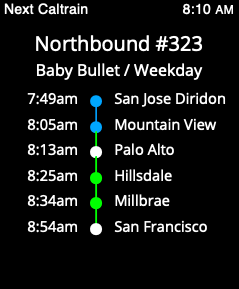
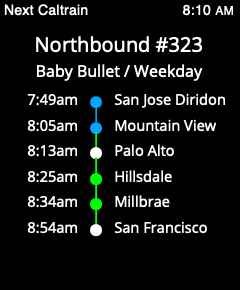
Allow hero screen work in fullscreen mode.

diff --git a/webapp/es5/NextCaltrain.js b/webapp/es5/NextCaltrain.js
@@ -22,9 +22,8 @@ var UP = 53;
 var DOWN = 56;
 
 var screens = 'hero grid trip about commands'.split(' ');
-var previousScreen = screens[0];
 
-var hints = [['Use the keypad to navigate<br/>as there is no touchscreen.', [], 'Press [OK] to continue and<br/>[BACK] to return to the app.'], ['Use [5] and [8] to move<br/>the seletion up and down.', [5, 8], 'The [UP] and [DOWN] buttons<br/>may not work as expected.'], ['Use [4] and [6] to<br/>change origin station.', [4, 6, 7, 9], 'Use [7] and [9] to<br/>change destination station.'], ['Use [0] to flip the direction<br/>of the selected stations.', [0, '#'], 'Use [#] to swap between<br/>weekday/weekend schedules.'], ['Use [2] to hide the cursor,<br/>and nagivate with 5 and 8.', [2, '*'], 'Use [*] to acess the menu<br/>for help and settings.']];
+var hints = [['Use the keypad to navigate<br/>as there is no touchscreen.', [], 'Press [OK] to continue and<br/>[BACK] to return to the app.'], ['Use [5] and [8] to move<br/>the seletion up and down.', [5, 8], 'The [UP] and [DOWN] buttons<br/>may not work as expected.'], ['Use [4] and [6] to<br/>change origin station.', [4, 6, 7, 9], 'Use [7] and [9] to<br/>change destination station.'], ['Use [0] to flip the direction<br/>of the selected stations.', [0, '#'], 'Use [#] to swap between<br/>weekday/weekend schedules.'], ['The cursor arrow is visible<br/>but not used by the app.', null, 'Move it to the right, then<br/>use [5] and [8] to navigate.']];
 var hintIndex = -1;
 
 var NextCaltrain = function () {
@@ -40,8 +39,7 @@ var NextCaltrain = function () {
       kaios = kaios1 || kaios2;
       if (!kaios) {
         document.getElementById('keypad').style['display'] = 'flex';
-      } else if (kaios2) {
-        document.getElementById('hero-screen').className = 'downtime';
+        document.getElementById('hero-filler').style['display'] = 'flex';
       } else if (kaios1) {
         document.getElementById('grid-screen').className = 'part-screen';
         document.getElementById('trip-screen').className = 'part-screen';
@@ -69,11 +67,16 @@ var NextCaltrain = function () {
       if (hintIndex >= hints.length) hintIndex = 0;
       document.getElementById('hint-above').innerHTML = hints[hintIndex][0];
       document.getElementById('hint-below').innerHTML = hints[hintIndex][2];
-      var bg = ['black', 'gray'];
-      for (var i = 0; i < 12; i++) {
-        var key = i < 10 ? i : ['*', '#'][i % 2];
-        var clr = hints[hintIndex][1].indexOf(key) == -1 ? bg[1] : bg[0];
-        document.getElementById(`k${key}`).style['background-color'] = clr;
+      if (hints[hintIndex][1] === null) {
+        document.getElementById('mini-keypad').style['visibility'] = 'hidden';
+      } else {
+        document.getElementById('mini-keypad').style['visibility'] = 'visible';
+        var bg = ['black', 'gray'];
+        for (var i = 0; i < 12; i++) {
+          var key = i < 10 ? i : ['*', '#'][i % 2];
+          var clr = hints[hintIndex][1].indexOf(key) == -1 ? bg[1] : bg[0];
+          document.getElementById(`k${key}`).style['background-color'] = clr;
+        }
       }
     }
   }, {
@@ -91,6 +94,8 @@ var NextCaltrain = function () {
       document.getElementById('grid-ampm').innerHTML = partTime[1].toUpperCase();
       document.getElementById('trip-time').innerHTML = partTime[0];
       document.getElementById('trip-ampm').innerHTML = partTime[1].toUpperCase();
+      document.getElementById('hero-time').innerHTML = partTime[0];
+      document.getElementById('hero-ampm').innerHTML = partTime[1].toUpperCase();
       setTimeout(function () {
         NextCaltrain.setTheTime();
       }, (60 - ourTime.seconds) * 1000);
@@ -261,7 +266,7 @@ var NextCaltrain = function () {
     key: 'displayScreen',
     value: function displayScreen(target) {
       if (kaios1) document.title = 'Next Caltrain';
-      if (target === 'grid' || target === 'trip') {
+      if (target === 'hero' || target === 'grid' || target === 'trip') {
         if (kaios2 && !document.fullscreenElement) document.documentElement.requestFullscreen();
       } else {
         if (kaios2 && document.fullscreenElement) document.exitFullscreen();
@@ -279,8 +284,9 @@ var NextCaltrain = function () {
     value: function attachListeners() {
       document.onfullscreenchange = function (e) {
         if (document.fullscreenElement) {
-          NextCaltrain.displayScreen('grid');
+          document.getElementById('hero-filler').style['display'] = 'flex';
         } else {
+          document.getElementById('hero-filler').style['display'] = 'none';
           NextCaltrain.displayScreen('hero');
         }
       };
@@ -307,6 +313,8 @@ var NextCaltrain = function () {
           code = BACK;
           if (NextCaltrain.currentScreen() !== 'hero') {
             e.preventDefault();
+          } else {
+            return;
           }
         } else if (code === OK) {
           e.preventDefault();
@@ -326,7 +334,6 @@ var NextCaltrain = function () {
       } else if (code === 'prefs') {
         var confirmation = ['Save', prefs.flipped ? prefs.destin : prefs.origin, 'as morning and', prefs.flipped ? prefs.origin : prefs.destin, 'as evening default stations?'].join(' ');
         if (confirm(confirmation)) prefs.saveStops();
-        NextCaltrain.displayScreen(previousScreen);
       } else if (code === 'about') {
         NextCaltrain.displayScreen('about');
       } else if (code === 'commands') {
@@ -334,14 +341,14 @@ var NextCaltrain = function () {
         NextCaltrain.displayScreen('commands');
       } else if (NextCaltrain.currentScreen() === 'about') {
         if (code == OK || code == BACK) {
-          NextCaltrain.displayScreen(previousScreen);
+          NextCaltrain.displayScreen('hero');
         }
       } else if (NextCaltrain.currentScreen() === 'commands') {
         if (code == OK) {
           NextCaltrain.bumpKeypadHint();
         } else if (code == BACK) {
           hintIndex = -1;
-          NextCaltrain.displayScreen(previousScreen);
+          NextCaltrain.displayScreen('hero');
         }
       } else if (document.getElementById('popup-menu').style['display'] === 'block') {
         if (code === OK || code === BACK) {
@@ -360,6 +367,7 @@ var NextCaltrain = function () {
         } else if (code === OK) {
           NextCaltrain.displayScreen('grid');
         } else if (code === 170 || code === 37) {
+          if (kaios2 && document.fullscreenElement) document.exitFullscreen();
           NextCaltrain.popupMenu('show');
         } else if (code === 163 || code === 39) {
           swapped = swapped ? false : true;

diff --git a/webapp/src/NextCaltrain.js b/webapp/src/NextCaltrain.js
@@ -16,7 +16,6 @@ const UP = 53;
 const DOWN = 56
 
 const screens = 'hero grid trip about commands'.split(' ');
-let previousScreen = screens[0];
 
 const hints = [
     ['Use the keypad to navigate<br/>as there is no touchscreen.', [],
@@ -27,8 +26,10 @@ const hints = [
      'Use [7] and [9] to<br/>change destination station.'],
     ['Use [0] to flip the direction<br/>of the selected stations.', [0,'#'],
      'Use [#] to swap between<br/>weekday/weekend schedules.'],
-    ['Use [2] to hide the cursor,<br/>and nagivate with 5 and 8.', [2,'*'],
-     'Use [*] to acess the menu<br/>for help and settings.']];
+//  ['Use [2] to hide the cursor,<br/>and nagivate with 5 and 8.', [2,'*'],
+//   'Use [*] to acess the menu<br/>for help and settings.']];
+    ['The cursor arrow is visible<br/>but not used by the app.', null,
+     'Move it to the right, then<br/>use [5] and [8] to navigate.']];
 let hintIndex = -1;
 
 class NextCaltrain {
@@ -41,8 +42,7 @@ class NextCaltrain {
     kaios = (kaios1 || kaios2);
     if (!kaios) {
       document.getElementById('keypad').style['display'] = 'flex';
-    } else if (kaios2) {
-      document.getElementById('hero-screen').className = 'downtime';
+      document.getElementById('hero-filler').style['display'] = 'flex';
     } else if (kaios1) {
       document.getElementById('grid-screen').className = 'part-screen';
       document.getElementById('trip-screen').className = 'part-screen';
@@ -68,11 +68,16 @@ class NextCaltrain {
     if (hintIndex >= hints.length) hintIndex = 0;
     document.getElementById('hint-above').innerHTML = hints[hintIndex][0];
     document.getElementById('hint-below').innerHTML = hints[hintIndex][2];
-    let bg = ['black', 'gray'];
-    for (let i = 0; i < 12; i++) {
-      let key = (i < 10) ? i : ['*','#'][i % 2];
-      let clr = hints[hintIndex][1].indexOf(key) == -1 ? bg[1] : bg[0];
-      document.getElementById(`k${key}`).style['background-color'] = clr;
+    if (hints[hintIndex][1] === null) {
+      document.getElementById('mini-keypad').style['visibility'] = 'hidden';
+    } else {
+      document.getElementById('mini-keypad').style['visibility'] = 'visible';
+      let bg = ['black', 'gray'];
+      for (let i = 0; i < 12; i++) {
+        let key = (i < 10) ? i : ['*','#'][i % 2];
+        let clr = hints[hintIndex][1].indexOf(key) == -1 ? bg[1] : bg[0];
+        document.getElementById(`k${key}`).style['background-color'] = clr;
+      }
     }
   }
 
@@ -88,6 +93,8 @@ class NextCaltrain {
     document.getElementById('grid-ampm').innerHTML = partTime[1].toUpperCase();
     document.getElementById('trip-time').innerHTML = partTime[0];
     document.getElementById('trip-ampm').innerHTML = partTime[1].toUpperCase();
+    document.getElementById('hero-time').innerHTML = partTime[0];
+    document.getElementById('hero-ampm').innerHTML = partTime[1].toUpperCase();
     setTimeout( function () { NextCaltrain.setTheTime() }, (60 - ourTime.seconds) * 1000);
     NextCaltrain.loadSchedule();
   }
@@ -242,7 +249,7 @@ class NextCaltrain {
 
   static displayScreen(target) {
     if (kaios1) document.title = 'Next Caltrain';
-    if (target === 'grid' || target === 'trip') {
+    if (target === 'hero' || target === 'grid' || target === 'trip') {
       if (kaios2 && !document.fullscreenElement) document.documentElement.requestFullscreen();
     } else {
       if (kaios2 && document.fullscreenElement) document.exitFullscreen();
@@ -260,8 +267,9 @@ class NextCaltrain {
     // Return to the hero screen when EXIT from fullscreen.
     document.onfullscreenchange = function (e) {
       if (document.fullscreenElement) {
-        NextCaltrain.displayScreen('grid');
+        document.getElementById('hero-filler').style['display'] = 'flex';
       } else {
+        document.getElementById('hero-filler').style['display'] = 'none';
         NextCaltrain.displayScreen('hero');
       }
     };
@@ -290,6 +298,8 @@ class NextCaltrain {
         if (NextCaltrain.currentScreen() !== 'hero') {
           // Support native EXIT on hero screen.
           e.preventDefault();
+        } else {
+          return;
         }
       } else if (code === OK) {
         // Catch OK to stifle fullscreen exit.
@@ -314,7 +324,6 @@ class NextCaltrain {
       let confirmation = ['Save', (prefs.flipped ? prefs.destin : prefs.origin), 'as morning and',
           (prefs.flipped ? prefs.origin : prefs.destin), 'as evening default stations?'].join(' ');
       if (confirm(confirmation)) prefs.saveStops();
-      NextCaltrain.displayScreen(previousScreen);
     } else if (code === 'about') {
       // Display the 'About' screen.
       NextCaltrain.displayScreen('about')
@@ -325,7 +334,7 @@ class NextCaltrain {
     } else if (NextCaltrain.currentScreen() === 'about') {
       // Handle events on the 'About' screen.
       if (code == OK || code == BACK) {
-        NextCaltrain.displayScreen(previousScreen);
+        NextCaltrain.displayScreen('hero');
       }
     } else if (NextCaltrain.currentScreen() === 'commands') {
       // Handle events on the 'Keypad commands' screen.
@@ -333,7 +342,7 @@ class NextCaltrain {
         NextCaltrain.bumpKeypadHint();
       } else if (code == BACK) {
         hintIndex = -1;
-        NextCaltrain.displayScreen(previousScreen);
+        NextCaltrain.displayScreen('hero');
       }
     } else if (document.getElementById('popup-menu').style['display'] === 'block') {
       // Handle and catch events intended for the popup menu.
@@ -355,6 +364,7 @@ class NextCaltrain {
       } else if (code === OK) {
         NextCaltrain.displayScreen('grid')
       } else if (code === 170 || code === 37) { // * or <-
+        if (kaios2 && document.fullscreenElement) document.exitFullscreen();
         NextCaltrain.popupMenu('show');
       } else if (code === 163 || code === 39) { // # or ->
         swapped = swapped ? false : true;

diff --git a/webapp/style.css b/webapp/style.css
@@ -14,18 +14,35 @@ body {
   justify-content: flex-start;
   flex-direction: column;
   display: flex;
+}
+
+#hero-filler {
+  display: flex;
+  flex-direction: column;
+}
+
+#fake-titlebar {
+  height: 35px;
+  background-color: #CCC;
+  /* in case we add text */
+  color: #333;
+  display: flex;
+  align-items: baseline;
+  line-height: 40px;
+  padding-left: 22px;
+  font-size: 14pt;
+  font-family: 'Noto Sans', sans-serif;
+}
+
+#hero-content {
+  position: relative;
+  display: flex;
+  flex-direction: column;
+  justify-content: space-between;
+  color: white;
+  background-color: black;
   width: 240px;
   height: 228px;
-}
-
-#hero-screen.downtime {
-  position: absolute;
-  bottom: 0;
-  left:0;
-}
-
-#fs-toggle:not(:fullscreen) {
-  background-color: #afa;
 }
 
 #about-screen {
@@ -56,17 +73,6 @@ body {
   font-size: 16px;
   background-color: white;
   color: black;
-  height: 228px;
-}
-
-#hero-content {
-  position: relative;
-  display: flex;
-  flex-direction: column;
-  justify-content: space-between;
-  color: white;
-  background-color: black;
-  width: 240px;
   height: 228px;
 }
 
@@ -195,6 +201,7 @@ body {
 
 #grid-ampm { font-size: 9pt; }
 #trip-ampm { font-size: 9pt; }
+#hero-ampm { font-size: 9pt; }
 
 #message { margin-bottom: 2px; }
 .message-arriving { color: #0F0; }

diff --git a/webapp/index.html b/webapp/index.html
@@ -53,6 +53,15 @@
   </div>
 
   <div id="hero-screen" style="display: flex;">
+    <div id="hero-filler" style="display: none;">
+      <div class="minibar">
+        <div id="hero-type">Next Caltrain</div>
+        <div><span id="hero-time"></span>
+             <span id="hero-ampm"></span></div>
+      </div>
+      <div id="fake-titlebar">
+      </div>
+    </div>
     <div id="hero-content">
       <div id="fade">
         <div id="main-hints">
@@ -85,8 +94,8 @@
   </div>
 
   <div id="grid-screen" class="full-screen" style="display: none;">
-    <div id="grid-header"><!-- 71 -->
-      <div class="fillbar"></div><!-- 15 -->
+    <div id="grid-header">
+      <div class="fillbar"></div>
       <div class="minibar">
         <div id="grid-type">Next Caltrain</div>
         <div><span id="grid-time"></span>
